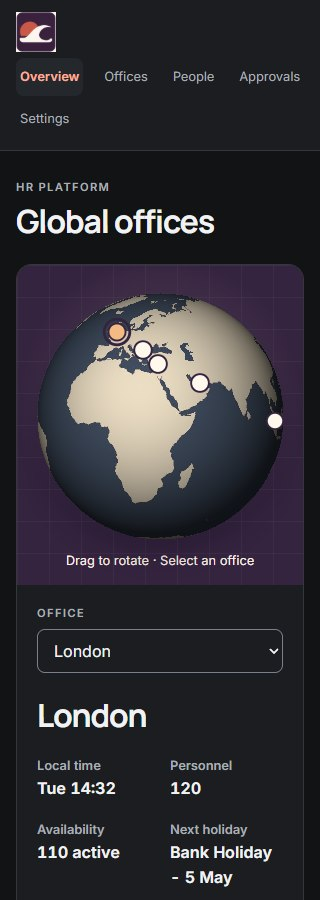
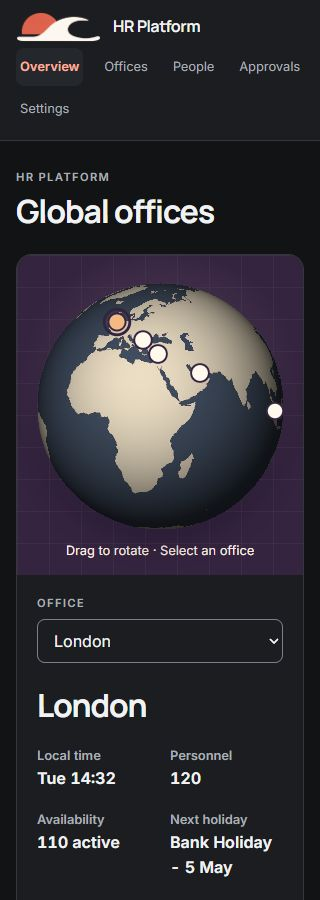
Match the HR header to Risk Lab and show the application title

diff --git a/index.html b/index.html
@@ -14,12 +14,17 @@
     <a class="oc-skip oc-button" href="#main">Skip to content</a>
     <header class="oc-header">
       <div class="frame mast">
-        <a class="oc-brand oc-brand-shore" href="index.html" aria-label="HR Platform home">
-          <picture class="oc-brand-light">
-            <source media="(max-width: 680px)" srcset="assets/icons/shore-wash-icon-light.png" width="512" height="512" />
-            <img src="assets/logos/shore-wash-banner.png" width="692" height="245" alt="" />
-          </picture>
-          <img class="oc-brand-dark" src="assets/icons/shore-wash-icon-dark.png" width="512" height="512" alt="" />
+        <a class="app-brand" href="index.html" aria-label="HR Platform home">
+          <svg width="0" height="0" aria-hidden="true" focusable="false">
+            <filter id="shore-wash-night" color-interpolation-filters="sRGB">
+              <feColorMatrix type="matrix" values="-0.22 0 0 0 1.04
+                                                   -1.03 0 0 0 1.21
+                                                   -1.12 0 0 0 1.20
+                                                    0    0 0 1 0" />
+            </filter>
+          </svg>
+          <img src="assets/logos/shore-wash-banner.png" width="692" height="245" alt="" />
+          <span>HR Platform</span>
         </a>
         <nav aria-label="Main">          <a href="index.html" aria-current="page">Overview</a>
           <a href="office.html">Offices</a>

diff --git a/office.html b/office.html
@@ -14,12 +14,17 @@
     <a class="oc-skip oc-button" href="#main">Skip to content</a>
     <header class="oc-header">
       <div class="frame mast">
-        <a class="oc-brand oc-brand-shore" href="index.html" aria-label="HR Platform home">
-          <picture class="oc-brand-light">
-            <source media="(max-width: 680px)" srcset="assets/icons/shore-wash-icon-light.png" width="512" height="512" />
-            <img src="assets/logos/shore-wash-banner.png" width="692" height="245" alt="" />
-          </picture>
-          <img class="oc-brand-dark" src="assets/icons/shore-wash-icon-dark.png" width="512" height="512" alt="" />
+        <a class="app-brand" href="index.html" aria-label="HR Platform home">
+          <svg width="0" height="0" aria-hidden="true" focusable="false">
+            <filter id="shore-wash-night" color-interpolation-filters="sRGB">
+              <feColorMatrix type="matrix" values="-0.22 0 0 0 1.04
+                                                   -1.03 0 0 0 1.21
+                                                   -1.12 0 0 0 1.20
+                                                    0    0 0 1 0" />
+            </filter>
+          </svg>
+          <img src="assets/logos/shore-wash-banner.png" width="692" height="245" alt="" />
+          <span>HR Platform</span>
         </a>
         <nav aria-label="Main">          <a href="index.html">Overview</a>
           <a href="office.html" aria-current="page">Offices</a>

diff --git a/approvals.html b/approvals.html
@@ -14,12 +14,17 @@
     <a class="oc-skip oc-button" href="#main">Skip to content</a>
     <header class="oc-header">
       <div class="frame mast">
-        <a class="oc-brand oc-brand-shore" href="index.html" aria-label="HR Platform home">
-          <picture class="oc-brand-light">
-            <source media="(max-width: 680px)" srcset="assets/icons/shore-wash-icon-light.png" width="512" height="512" />
-            <img src="assets/logos/shore-wash-banner.png" width="692" height="245" alt="" />
-          </picture>
-          <img class="oc-brand-dark" src="assets/icons/shore-wash-icon-dark.png" width="512" height="512" alt="" />
+        <a class="app-brand" href="index.html" aria-label="HR Platform home">
+          <svg width="0" height="0" aria-hidden="true" focusable="false">
+            <filter id="shore-wash-night" color-interpolation-filters="sRGB">
+              <feColorMatrix type="matrix" values="-0.22 0 0 0 1.04
+                                                   -1.03 0 0 0 1.21
+                                                   -1.12 0 0 0 1.20
+                                                    0    0 0 1 0" />
+            </filter>
+          </svg>
+          <img src="assets/logos/shore-wash-banner.png" width="692" height="245" alt="" />
+          <span>HR Platform</span>
         </a>
         <nav aria-label="Main">          <a href="index.html">Overview</a>
           <a href="office.html">Offices</a>

diff --git a/people.html b/people.html
@@ -14,12 +14,17 @@
     <a class="oc-skip oc-button" href="#main">Skip to content</a>
     <header class="oc-header">
       <div class="frame mast">
-        <a class="oc-brand oc-brand-shore" href="index.html" aria-label="HR Platform home">
-          <picture class="oc-brand-light">
-            <source media="(max-width: 680px)" srcset="assets/icons/shore-wash-icon-light.png" width="512" height="512" />
-            <img src="assets/logos/shore-wash-banner.png" width="692" height="245" alt="" />
-          </picture>
-          <img class="oc-brand-dark" src="assets/icons/shore-wash-icon-dark.png" width="512" height="512" alt="" />
+        <a class="app-brand" href="index.html" aria-label="HR Platform home">
+          <svg width="0" height="0" aria-hidden="true" focusable="false">
+            <filter id="shore-wash-night" color-interpolation-filters="sRGB">
+              <feColorMatrix type="matrix" values="-0.22 0 0 0 1.04
+                                                   -1.03 0 0 0 1.21
+                                                   -1.12 0 0 0 1.20
+                                                    0    0 0 1 0" />
+            </filter>
+          </svg>
+          <img src="assets/logos/shore-wash-banner.png" width="692" height="245" alt="" />
+          <span>HR Platform</span>
         </a>
         <nav aria-label="Main">          <a href="index.html">Overview</a>
           <a href="office.html">Offices</a>

diff --git a/settings.html b/settings.html
@@ -14,12 +14,17 @@
     <a class="oc-skip oc-button" href="#main">Skip to content</a>
     <header class="oc-header">
       <div class="frame mast">
-        <a class="oc-brand oc-brand-shore" href="index.html" aria-label="HR Platform home">
-          <picture class="oc-brand-light">
-            <source media="(max-width: 680px)" srcset="assets/icons/shore-wash-icon-light.png" width="512" height="512" />
-            <img src="assets/logos/shore-wash-banner.png" width="692" height="245" alt="" />
-          </picture>
-          <img class="oc-brand-dark" src="assets/icons/shore-wash-icon-dark.png" width="512" height="512" alt="" />
+        <a class="app-brand" href="index.html" aria-label="HR Platform home">
+          <svg width="0" height="0" aria-hidden="true" focusable="false">
+            <filter id="shore-wash-night" color-interpolation-filters="sRGB">
+              <feColorMatrix type="matrix" values="-0.22 0 0 0 1.04
+                                                   -1.03 0 0 0 1.21
+                                                   -1.12 0 0 0 1.20
+                                                    0    0 0 1 0" />
+            </filter>
+          </svg>
+          <img src="assets/logos/shore-wash-banner.png" width="692" height="245" alt="" />
+          <span>HR Platform</span>
         </a>
         <nav aria-label="Main">          <a href="index.html">Overview</a>
           <a href="office.html">Offices</a>

diff --git a/styles.css b/styles.css
@@ -11,6 +11,19 @@ button, select { cursor: pointer; }
   display: flex; align-items: center; gap: 16px; flex-wrap: wrap;
 }
 .mast { min-height: 72px; justify-content: space-between; padding-block: 12px; }
+.app-brand {
+  display: inline-flex;
+  align-items: center;
+  gap: 12px;
+  color: var(--text);
+  font: 650 clamp(1rem, 2vw, 1.25rem)/1.2 var(--font-display);
+  letter-spacing: -.025em;
+  text-decoration: none;
+  white-space: nowrap;
+}
+.app-brand svg { position: absolute; }
+.app-brand img { display: block; width: auto; height: clamp(30px, 4vw, 40px); }
+[data-theme='dark'] .app-brand img { filter: url(#shore-wash-night); }
 .mast nav { gap: 4px; }
 .mast nav a { text-decoration: none; color: var(--text-muted); padding: 10px 14px; font-size: .9rem; border-radius: var(--radius-control); }
 .mast nav a:hover { color: var(--text); }

diff --git a/docs/appearance.md b/docs/appearance.md
@@ -1,5 +1,5 @@
 # Appearance
 
-Choose System, Light or Dark in Settings. The header uses the Shore Wash banner on wide light screens, Open Water on compact light screens and Nightfall A in dark mode.
+Choose System, Light or Dark in Settings. The HR Platform title sits beside the transparent Shore Wash banner at every screen size. Dark mode uses an ivory wave and coral sun, matching Risk Lab. The square icons serve as favicons.
 
 The artwork and fonts come from the [portfolio design kit](https://github.com/imchuwy/ux-template). See the [font licenses](../assets/fonts/licenses).
